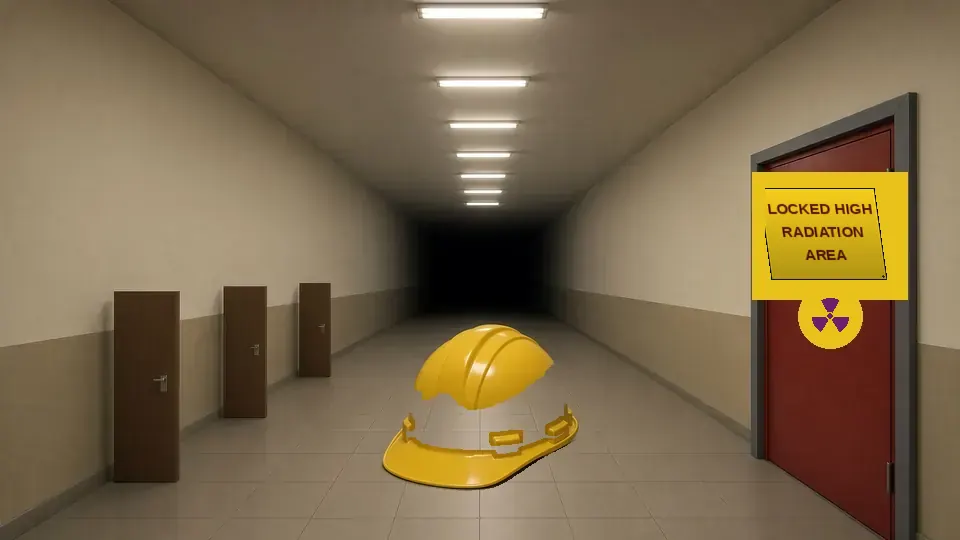
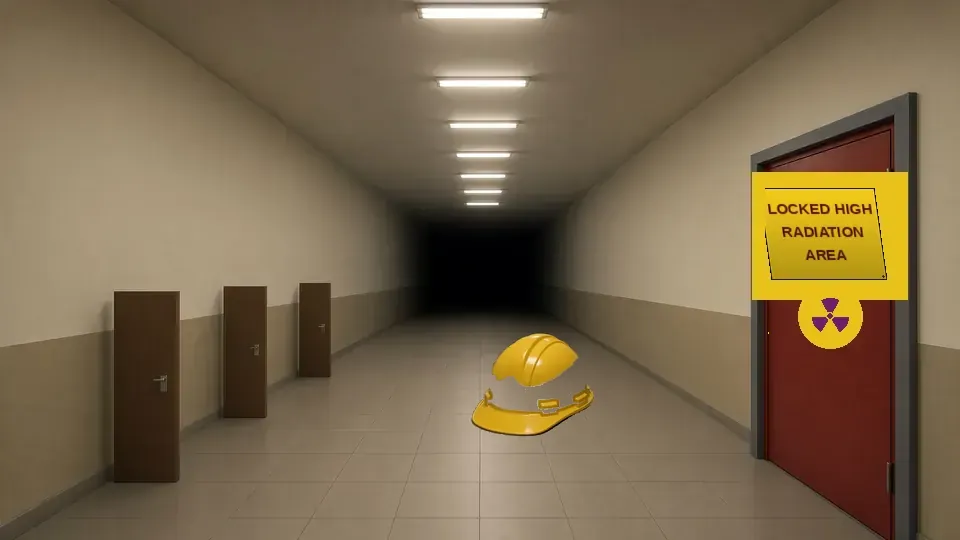
Part A: oddities sit inside the band
Flicker, fog and the cavity glow were loud because the old rule rewarded it. They are quiet now. The hard hat on the corridor plate is smaller. The visibility table exits clean.

Grok <noreply@x.ai>

Changed region(s): [[0.375, 0.5926, 0.625, 0.9185]]

diff --git a/src/game/nightwatch/cameras.ts b/src/game/nightwatch/cameras.ts
@@ -433,10 +433,16 @@ function oddities(g: G, t: number, v: Vis, r: Room, scene: string) {
   }
   // The hard hat is the corridor state plate (aux camera). No code hat on the turbine.
   if (v.has("flicker")) {
+    // One fixture, not the whole frame. Quiet enough to stay an oddity.
     const off = hash(Math.floor(t * 9), 11) > 0.62 || Math.sin(t * 31) > 0.85;
     if (off) {
-      g.fillStyle = "rgba(0,0,0,0.38)";
-      g.fillRect(0, 0, W, H);
+      g.save();
+      g.globalCompositeOperation = "multiply";
+      g.fillStyle = "rgb(70,70,70)";
+      g.beginPath();
+      g.ellipse(W * 0.32, 28, 22, 8, 0, 0, Math.PI * 2);
+      g.fill();
+      g.restore();
     }
   }
 }
@@ -641,8 +647,10 @@ const S: Record<string, Scene> = {
     live(g, t, v) {
       if (v.has("warmGlow")) {
         g.globalCompositeOperation = "lighter";
-        g.fillStyle = rad(g, W / 2, 180, 160, [[0, `rgba(255,200,150,${0.4 + 0.08 * Math.sin(t)})`], [1, "rgba(0,0,0,0)"]]);
-        g.fillRect(0, 0, W, H);
+        g.fillStyle = rad(g, W / 2, 168, 42, [[0, `rgba(255,190,140,${0.28 + 0.06 * Math.sin(t)})`], [1, "rgba(0,0,0,0)"]]);
+        g.beginPath();
+        g.ellipse(W / 2, 168, 36, 14, 0, 0, Math.PI * 2);
+        g.fill();
         g.globalCompositeOperation = "source-over";
       }
     },
@@ -988,10 +996,14 @@ const S: Record<string, Scene> = {
         g.globalCompositeOperation = "source-over";
       }
       if (v.has("fog") || v.has("arc")) {
-        for (let k = 0; k < 8; k++) {
-          const x = ((t * 6 + k * 90) % (W + 200)) - 100;
-          g.fillStyle = rad(g, x, 150 + k * 6, 120, [[0, "rgba(190,180,160,0.55)"], [1, "rgba(0,0,0,0)"]]);
-          g.fillRect(x - 120, 30, 240, 240);
+        const n = v.has("arc") ? 3 : 2;
+        for (let k = 0; k < n; k++) {
+          const x = 140 + k * 160 + Math.sin(t * 0.4 + k) * 8;
+          const a = v.has("arc") ? 0.4 : 0.34;
+          g.fillStyle = rad(g, x, 158, 40, [[0, `rgba(200,190,170,${a})`], [1, "rgba(0,0,0,0)"]]);
+          g.beginPath();
+          g.ellipse(x, 158, 34, 12, 0, 0, Math.PI * 2);
+          g.fill();
         }
       }
       const van = v.at("van");

diff --git a/src/game/nightwatch/plates.ts b/src/game/nightwatch/plates.ts
@@ -52,7 +52,7 @@ export const PLATES: Record<string, PlateSpec> = {
     states: {
       doorAjar: { file: "/nightwatch/plates/corridor-doorAjar.webp", measured: [313, 55, 142, 215], box: [305, 47, 158, 223] },
       chair: { file: "/nightwatch/plates/corridor-chair.webp", measured: [191, 169, 48, 63], box: [183, 161, 64, 79] },
-      hardhat: { file: "/nightwatch/plates/corridor-hardhat.webp", measured: [192, 162, 97, 83], box: [184, 154, 113, 99] },
+      hardhat: { file: "/nightwatch/plates/corridor-hardhat.webp", measured: [236, 166, 149, 52], box: [228, 158, 165, 68] },
     },
   },
   pool: {

diff --git a/docs/audit/2026-11-21-rotation/visible.md b/docs/audit/2026-11-21-rotation/visible.md
@@ -10,82 +10,82 @@ The same scene and visual draws the same frame on every site, so those rows shar
 | Site | Camera | Scene | Visual | Kind | Plate px | Code px | Plate % | Event rule | Oddity rule |
 | --- | --- | --- | --- | --- | ---: | ---: | ---: | --- | --- |
 | pwr | core | containment | puddle | event | 5204 | 5672 | 1.00 | pass | n/a |
-| pwr | pzr | pressurizer | steamWisp | event | 4799 | 3786 | 0.93 | pass | n/a |
-| pwr | pzr | pressurizer | flicker | oddity | 204606 | 137185 | 39.47 | n/a | FAIL >2.0% |
-| pwr | steamline | msiv | beacon | event | 15328 | 14835 | 2.96 | pass | n/a |
+| pwr | pzr | pressurizer | steamWisp | event | 4796 | 3786 | 0.93 | pass | n/a |
+| pwr | pzr | pressurizer | flicker | oddity | 2156 | 2129 | 0.42 | n/a | pass |
+| pwr | steamline | msiv | beacon | event | 14880 | 14387 | 2.87 | pass | n/a |
 | pwr | turbine | turbine | pumpStopped | event | 19612 | 18543 | 3.78 | pass | n/a |
-| pwr | turbine | turbine | hardhat | oddity | 12273 | 12289 | 2.37 | n/a | FAIL >2.0% |
 | pwr | aux | corridor | puddle | event | 12142 | 10938 | 2.34 | pass | n/a |
 | pwr | aux | corridor | doorAjar | event | 41602 | 13228 | 8.03 | pass | n/a |
-| pwr | aux | corridor | flicker | oddity | 429689 | 429005 | 82.89 | n/a | FAIL >2.0% |
+| pwr | aux | corridor | flicker | oddity | 2222 | 2224 | 0.43 | n/a | pass |
 | pwr | aux | corridor | chair | oddity | 8580 | 2858 | 1.66 | n/a | pass |
-| pwr | pool | pool | toolBag | event | 9696 | 3776 | 1.87 | pass | n/a |
-| pwr | pool | pool | poolLow | event | 38361 | 28928 | 7.40 | pass | n/a |
-| pwr | pool | pool | ripple | oddity | 1861 | 55 | 0.36 | n/a | pass |
-| pwr | yard | yard | arc | event | 160231 | 173035 | 30.91 | pass | n/a |
-| pwr | yard | yard | fog | oddity | 129917 | 142108 | 25.06 | n/a | FAIL >2.0% |
+| pwr | aux | corridor | hardhat | oddity | 5893 | 0 | 1.14 | n/a | pass |
+| pwr | pool | pool | toolBag | event | 9203 | 3776 | 1.78 | pass | n/a |
+| pwr | pool | pool | poolLow | event | 38292 | 28928 | 7.39 | pass | n/a |
+| pwr | pool | pool | ripple | oddity | 1368 | 55 | 0.26 | n/a | pass |
+| pwr | yard | yard | arc | event | 36312 | 36188 | 7.00 | pass | n/a |
+| pwr | yard | yard | fog | oddity | 2485 | 2321 | 0.48 | n/a | pass |
 | pwr | yard | yard | rover:0.5 | other | 3447 | 3857 | 0.66 | pass | n/a |
 | pwr | yard | yard | van:0.5 | other | 20115 | 20102 | 3.88 | pass | n/a |
-| pwr | intake | intake | debris | event | 64294 | 11653 | 12.40 | pass | n/a |
-| pwr | intake | intake | gull | oddity | 3169 | 3168 | 0.61 | n/a | pass |
+| pwr | intake | intake | debris | event | 27399 | 11653 | 5.29 | pass | n/a |
+| pwr | intake | intake | gull | oddity | 3167 | 3168 | 0.61 | n/a | pass |
 | bwr | core | drywell | puddle | event | 3957 | 4679 | 0.76 | pass | n/a |
 | bwr | pzr | torus | steamWisp | event | 10373 | 10893 | 2.00 | pass | n/a |
 | bwr | steamline | tunnel | beacon | event | 20728 | 20512 | 4.00 | pass | n/a |
 | bwr | steamline | tunnel | condensate | oddity | 5438 | 6774 | 1.05 | n/a | pass |
 | bwr | turbine | turbine | pumpStopped | event | 19612 | 18543 | 3.78 | pass | n/a |
-| bwr | turbine | turbine | hardhat | oddity | 12273 | 12289 | 2.37 | n/a | FAIL >2.0% |
 | bwr | aux | corridor | puddle | event | 12142 | 10938 | 2.34 | pass | n/a |
 | bwr | aux | corridor | doorAjar | event | 41602 | 13228 | 8.03 | pass | n/a |
-| bwr | aux | corridor | flicker | oddity | 429689 | 429005 | 82.89 | n/a | FAIL >2.0% |
+| bwr | aux | corridor | flicker | oddity | 2222 | 2224 | 0.43 | n/a | pass |
 | bwr | aux | corridor | chair | oddity | 8580 | 2858 | 1.66 | n/a | pass |
-| bwr | pool | pool | toolBag | event | 9696 | 3776 | 1.87 | pass | n/a |
-| bwr | pool | pool | poolLow | event | 38361 | 28928 | 7.40 | pass | n/a |
-| bwr | pool | pool | ripple | oddity | 1861 | 55 | 0.36 | n/a | pass |
-| bwr | yard | yard | arc | event | 160231 | 173035 | 30.91 | pass | n/a |
-| bwr | yard | yard | fog | oddity | 129917 | 142108 | 25.06 | n/a | FAIL >2.0% |
+| bwr | aux | corridor | hardhat | oddity | 5893 | 0 | 1.14 | n/a | pass |
+| bwr | pool | pool | toolBag | event | 9203 | 3776 | 1.78 | pass | n/a |
+| bwr | pool | pool | poolLow | event | 38292 | 28928 | 7.39 | pass | n/a |
+| bwr | pool | pool | ripple | oddity | 1368 | 55 | 0.26 | n/a | pass |
+| bwr | yard | yard | arc | event | 36312 | 36188 | 7.00 | pass | n/a |
+| bwr | yard | yard | fog | oddity | 2485 | 2321 | 0.48 | n/a | pass |
 | bwr | yard | yard | rover:0.5 | other | 3447 | 3857 | 0.66 | pass | n/a |
 | bwr | yard | yard | van:0.5 | other | 20115 | 20102 | 3.88 | pass | n/a |
-| bwr | intake | intake | debris | event | 64294 | 11653 | 12.40 | pass | n/a |
-| bwr | intake | intake | gull | oddity | 3169 | 3168 | 0.61 | n/a | pass |
-| pebble | core | cavity | warmGlow | oddity | 79541 | 80104 | 15.34 | n/a | FAIL >2.0% |
+| bwr | intake | intake | debris | event | 27399 | 11653 | 5.29 | pass | n/a |
+| bwr | intake | intake | gull | oddity | 3167 | 3168 | 0.61 | n/a | pass |
+| pebble | core | cavity | warmGlow | oddity | 3204 | 3201 | 0.62 | n/a | pass |
 | pebble | pzr | blower | shake | event | 28725 | 22866 | 5.54 | pass | n/a |
 | pebble | pzr | blower | steamWisp | event | 4507 | 4082 | 0.87 | pass | n/a |
-| pebble | steamline | discharge | jam | event | 22651 | 23856 | 4.37 | pass | n/a |
+| pebble | steamline | discharge | jam | event | 19851 | 20848 | 3.83 | pass | n/a |
 | pebble | turbine | turbine | pumpStopped | event | 19612 | 18543 | 3.78 | pass | n/a |
-| pebble | turbine | turbine | hardhat | oddity | 12273 | 12289 | 2.37 | n/a | FAIL >2.0% |
 | pebble | aux | corridor | puddle | event | 12142 | 10938 | 2.34 | pass | n/a |
 | pebble | aux | corridor | doorAjar | event | 41602 | 13228 | 8.03 | pass | n/a |
-| pebble | aux | corridor | flicker | oddity | 429689 | 429005 | 82.89 | n/a | FAIL >2.0% |
+| pebble | aux | corridor | flicker | oddity | 2222 | 2224 | 0.43 | n/a | pass |
 | pebble | aux | corridor | chair | oddity | 8580 | 2858 | 1.66 | n/a | pass |
-| pebble | pool | pool | toolBag | event | 9696 | 3776 | 1.87 | pass | n/a |
-| pebble | pool | pool | poolLow | event | 38361 | 28928 | 7.40 | pass | n/a |
-| pebble | pool | pool | ripple | oddity | 1861 | 55 | 0.36 | n/a | pass |
-| pebble | yard | yard | arc | event | 160231 | 173035 | 30.91 | pass | n/a |
-| pebble | yard | yard | fog | oddity | 129917 | 142108 | 25.06 | n/a | FAIL >2.0% |
+| pebble | aux | corridor | hardhat | oddity | 5893 | 0 | 1.14 | n/a | pass |
+| pebble | pool | pool | toolBag | event | 9203 | 3776 | 1.78 | pass | n/a |
+| pebble | pool | pool | poolLow | event | 38292 | 28928 | 7.39 | pass | n/a |
+| pebble | pool | pool | ripple | oddity | 1368 | 55 | 0.26 | n/a | pass |
+| pebble | yard | yard | arc | event | 36312 | 36188 | 7.00 | pass | n/a |
+| pebble | yard | yard | fog | oddity | 2485 | 2321 | 0.48 | n/a | pass |
 | pebble | yard | yard | rover:0.5 | other | 3447 | 3857 | 0.66 | pass | n/a |
 | pebble | yard | yard | van:0.5 | other | 20115 | 20102 | 3.88 | pass | n/a |
-| pebble | intake | intake | debris | event | 64294 | 11653 | 12.40 | pass | n/a |
-| pebble | intake | intake | gull | oddity | 3169 | 3168 | 0.61 | n/a | pass |
+| pebble | intake | intake | debris | event | 27399 | 11653 | 5.29 | pass | n/a |
+| pebble | intake | intake | gull | oddity | 3167 | 3168 | 0.61 | n/a | pass |
 | msr | core | cell | heaterDark | event | 46887 | 312 | 9.04 | pass | n/a |
 | msr | core | cell | shadow | oddity | 839 | 4233 | 0.16 | n/a | pass; plate < half of code |
 | msr | pzr | freeze | frostGone | event | 46037 | 27320 | 8.88 | pass | n/a |
 | msr | steamline | offgas | beacon | event | 16445 | 15486 | 3.17 | pass | n/a |
 | msr | turbine | turbine | pumpStopped | event | 19612 | 18543 | 3.78 | pass | n/a |
-| msr | turbine | turbine | hardhat | oddity | 12273 | 12289 | 2.37 | n/a | FAIL >2.0% |
 | msr | aux | corridor | puddle | event | 12142 | 10938 | 2.34 | pass | n/a |
 | msr | aux | corridor | doorAjar | event | 41602 | 13228 | 8.03 | pass | n/a |
-| msr | aux | corridor | flicker | oddity | 429689 | 429005 | 82.89 | n/a | FAIL >2.0% |
+| msr | aux | corridor | flicker | oddity | 2222 | 2224 | 0.43 | n/a | pass |
 | msr | aux | corridor | chair | oddity | 8580 | 2858 | 1.66 | n/a | pass |
-| msr | pool | pool | toolBag | event | 9696 | 3776 | 1.87 | pass | n/a |
-| msr | pool | pool | poolLow | event | 38361 | 28928 | 7.40 | pass | n/a |
-| msr | pool | pool | ripple | oddity | 1861 | 55 | 0.36 | n/a | pass |
-| msr | yard | yard | arc | event | 160231 | 173035 | 30.91 | pass | n/a |
-| msr | yard | yard | fog | oddity | 129917 | 142108 | 25.06 | n/a | FAIL >2.0% |
+| msr | aux | corridor | hardhat | oddity | 5893 | 0 | 1.14 | n/a | pass |
+| msr | pool | pool | toolBag | event | 9203 | 3776 | 1.78 | pass | n/a |
+| msr | pool | pool | poolLow | event | 38292 | 28928 | 7.39 | pass | n/a |
+| msr | pool | pool | ripple | oddity | 1368 | 55 | 0.26 | n/a | pass |
+| msr | yard | yard | arc | event | 36312 | 36188 | 7.00 | pass | n/a |
+| msr | yard | yard | fog | oddity | 2485 | 2321 | 0.48 | n/a | pass |
 | msr | yard | yard | rover:0.5 | other | 3447 | 3857 | 0.66 | pass | n/a |
 | msr | yard | yard | van:0.5 | other | 20115 | 20102 | 3.88 | pass | n/a |
-| msr | intake | intake | debris | event | 64294 | 11653 | 12.40 | pass | n/a |
-| msr | intake | intake | gull | oddity | 3169 | 3168 | 0.61 | n/a | pass |
+| msr | intake | intake | debris | event | 27399 | 11653 | 5.29 | pass | n/a |
+| msr | intake | intake | gull | oddity | 3167 | 3168 | 0.61 | n/a | pass |
 
 Page errors: 0.
 Every event clears 0.4%.
-14 oddities outside 0.12%–2.0%.
+Every oddity is inside 0.12%–2.0%.

diff --git a/docs/audit/2026-11-21-rotation/PROGRESS.md b/docs/audit/2026-11-21-rotation/PROGRESS.md
@@ -17,6 +17,7 @@ Branch made by Claude: `g/nw-plates` + `c/crew-outage-1118` merged. Full suite a
 - A8 done · Pressurizer words were a small board on a larger white sign. They are rebaked to fill it (about 124×64). Before and after crops are in visual/.
 - A9 done · Cherenkov is a vertical strip rising out of the cells, brighter at the bottom. Every fifth cell stays dark. The round lamp dots are gone.
 - A10 done · Intake screens are flat framed mesh in the same three slots, not round columns. Debris is the same camera with kelp on the mesh. Screen edges stay within 8 px of 80, 144, 210, 274, 340 and 404. The beacon spot stays dark. New plates kept.
+- A-band done · Flicker is one fixture (0.42%). Fog is two low wisps (0.48%). Cavity glow is a small warm patch (0.62%). The corridor hard hat is smaller so the plate change is 1.14%. `visible.md` exits clean: every event clears 0.4%, every oddity is inside 0.12–2.0%.
 - A11 todo · Shoot the before-and-after sheet
 
 ## Part B
